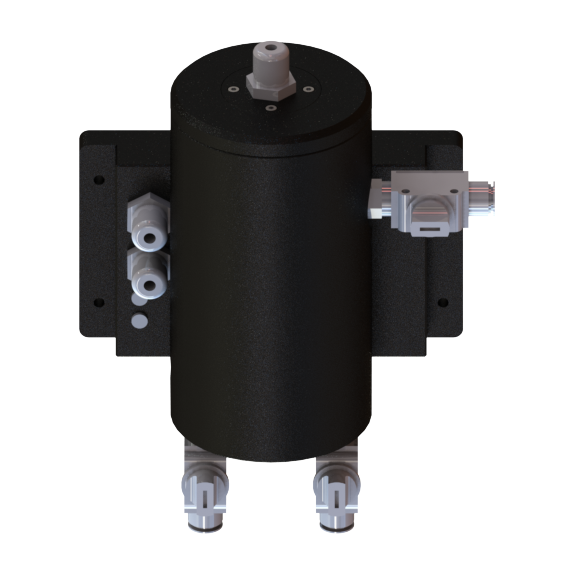
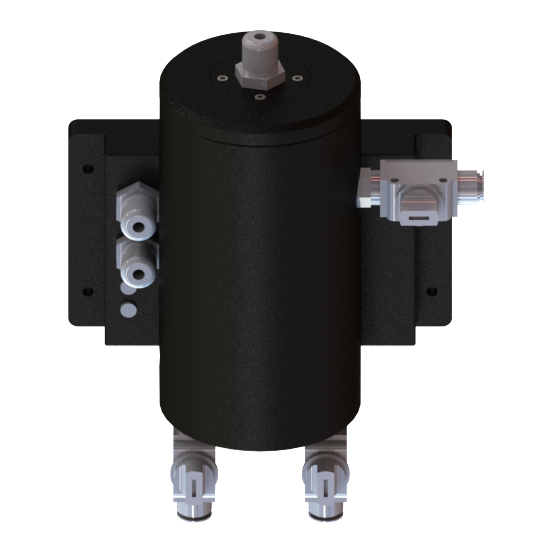
wbtu10/wbcl10: transparent bg + p-3 sizing
Made-with: Cursor

diff --git a/src/components/products/ProductCard.tsx b/src/components/products/ProductCard.tsx
@@ -31,8 +31,8 @@ export default function ProductCard({ product, className }: ProductCardProps) {
               fill
               className={(() => {
                 const pad: Record<string, string> = {
-                  'wbcl10': 'p-0',
-                  'wbtu10': 'p-0',
+                  'wbcl10': 'p-3',
+                  'wbtu10': 'p-3',
                   'wbtu-pro': 'p-8',
                   'wbph10': 'p-10',
                   'wbec10': 'p-10',

diff --git a/src/app/[locale]/products/[slug]/ProductDetailClient.tsx b/src/app/[locale]/products/[slug]/ProductDetailClient.tsx
@@ -16,8 +16,8 @@ type TabKey = 'overview' | 'specs' | 'features'
 function ProductImageWithFallback({ src, alt, model, slug }: { src: string; alt: string; model: string; slug: string }) {
   const [error, setError] = useState(false)
   const detailPadding: Record<string, string> = {
-    'wbcl10':    'p-0',
-    'wbtu10':    'p-0',
+    'wbcl10':    'p-3',
+    'wbtu10':    'p-3',
     'wbtu-pro':  'p-10',
     'wbph10':    'p-8',
     'wbec10':    'p-8',

diff --git a/src/components/home/ProductHighlight.tsx b/src/components/home/ProductHighlight.tsx
@@ -10,8 +10,8 @@ import SectionTitle from '@/components/ui/SectionTitle'
 import { getFeaturedProducts } from '@/lib/products'
 
 const slugPadding: Record<string, string> = {
-  'wbcl10':    'p-0',
-  'wbtu10':    'p-0',
+  'wbcl10':    'p-3',
+  'wbtu10':    'p-3',
   'wbtu-pro':  'p-10',
   'wbph10':    'p-12',
   'wbec10':    'p-12',
